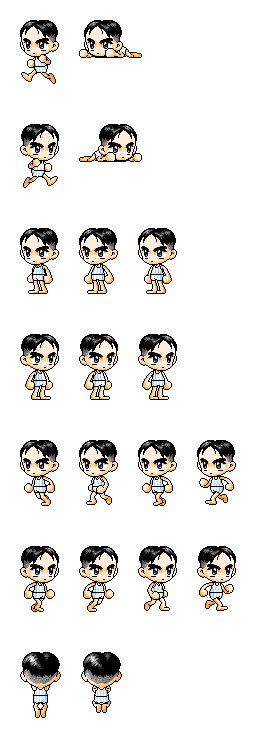
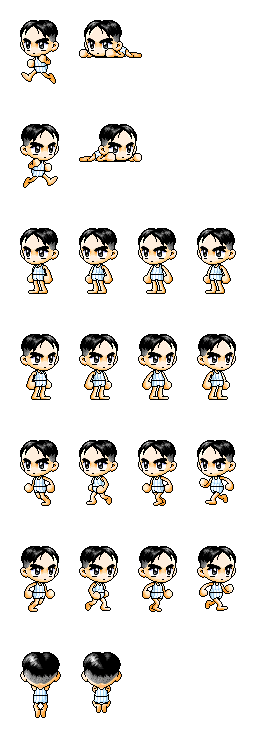
idle 및 좌우이동 애니메이션 수정

diff --git a/player.py b/player.py
@@ -1,4 +1,4 @@
-from pico2d import load_image, SDL_KEYDOWN, SDLK_SPACE, get_time, SDLK_RIGHT, SDLK_LEFT, SDL_KEYUP, SDLK_a
+from pico2d import load_image, SDL_KEYDOWN, SDLK_SPACE, get_time, SDLK_RIGHT, SDLK_LEFT, SDL_KEYUP, get_time, draw_rectangle
 import math
 
 
@@ -17,6 +17,10 @@ def left_up(e):
 
 class Idle:
 
+    idle_time = 0.5
+    elapsed_time = 0.0
+    last_time = 0.0
+
     @staticmethod
     def enter(player, e):
         if player.action == 1:      # 오른쪽 걷기
@@ -25,6 +29,8 @@ class Idle:
             player.action = 4       # 왼쪽 아이들
         player.dir = 0
         player.frame = 0
+        Idle.elapsed_time = 0.0
+        Idle.last_time = get_time()
 
     @staticmethod
     def exit(player, e):
@@ -32,14 +38,34 @@ class Idle:
 
     @staticmethod
     def do(player):
-        player.frame = (player.frame + 1) % 3
+        current_time = get_time()
+        time_difference = current_time - Idle.last_time
+        Idle.last_time = current_time
+        Idle.elapsed_time += time_difference
+
+        if Idle.elapsed_time >= Idle.idle_time:
+            Idle.elapsed_time = 0
+            player.frame = (player.frame + 1) % 4
 
     @staticmethod
     def draw(player):
-        player.image.clip_draw(player.frame * 59, player.action * 106, 59, 106, player.x, player.y)
+        if player.action == 3:
+            player.image.clip_draw(player.frame * 59, 338, 59, 66, player.x, player.y)
+        elif player.action == 4:
+            player.image.clip_draw(player.frame * 59, 444, 59, 66, player.x, player.y)
+        # 캐릭터 주변에 사각형 테두리 그리기
+        left = player.x - 59 // 2 + 16
+        bottom = player.y - 66 // 2
+        right = player.x + 59 // 2 + 2
+        top = player.y + 70 // 2
+        draw_rectangle(left, bottom, right, top)
 
 
 class Walk:
+
+    idle_time = 0.1
+    elapsed_time = 0.0
+    last_time = 0.0
 
     @staticmethod
     def enter(player, e):
@@ -47,6 +73,8 @@ class Walk:
             player.dir, player.action = 1, 1
         elif left_down(e) or right_up(e):
             player.dir, player.action = -1, 2
+        Walk.elapsed_time = 0.0
+        Walk.last_time = get_time()
 
     @staticmethod
     def exit(player, e):
@@ -54,12 +82,30 @@ class Walk:
 
     @staticmethod
     def do(player):
-        player.frame = (player.frame + 1) % 4
-        player.x += player.dir * 5
+
+        current_time = get_time()
+        time_difference = current_time - Walk.last_time
+        Walk.last_time = current_time
+        Walk.elapsed_time += time_difference
+
+        if Walk.elapsed_time >= Walk.idle_time:
+            Walk.elapsed_time = 0
+            player.frame = (player.frame + 1) % 4
+
+        player.x += player.dir * 2
 
     @staticmethod
     def draw(player):
-        player.image.clip_draw(player.frame * 59, player.action * 106, 59, 106, player.x, player.y)
+        if player.action == 1:
+            player.image.clip_draw(player.frame * 59, 126, 59, 66, player.x, player.y)
+        elif player.action == 2:
+            player.image.clip_draw(player.frame * 59, 232, 59, 66, player.x, player.y)
+        # 캐릭터 주변에 사각형 테두리 그리기
+        left = player.x - 59 // 2 + 16
+        bottom = player.y - 66 // 2
+        right = player.x + 59 // 2 + 2
+        top = player.y + 70 // 2
+        draw_rectangle(left, bottom, right, top)
 
 
 class StateMachine:

diff --git a/player_control.py b/player_control.py
@@ -53,6 +53,6 @@ while running:
     handle_events()
     update_world()
     render_world()
-    delay(0.3)
+    delay(0.01)
 
 close_canvas()
